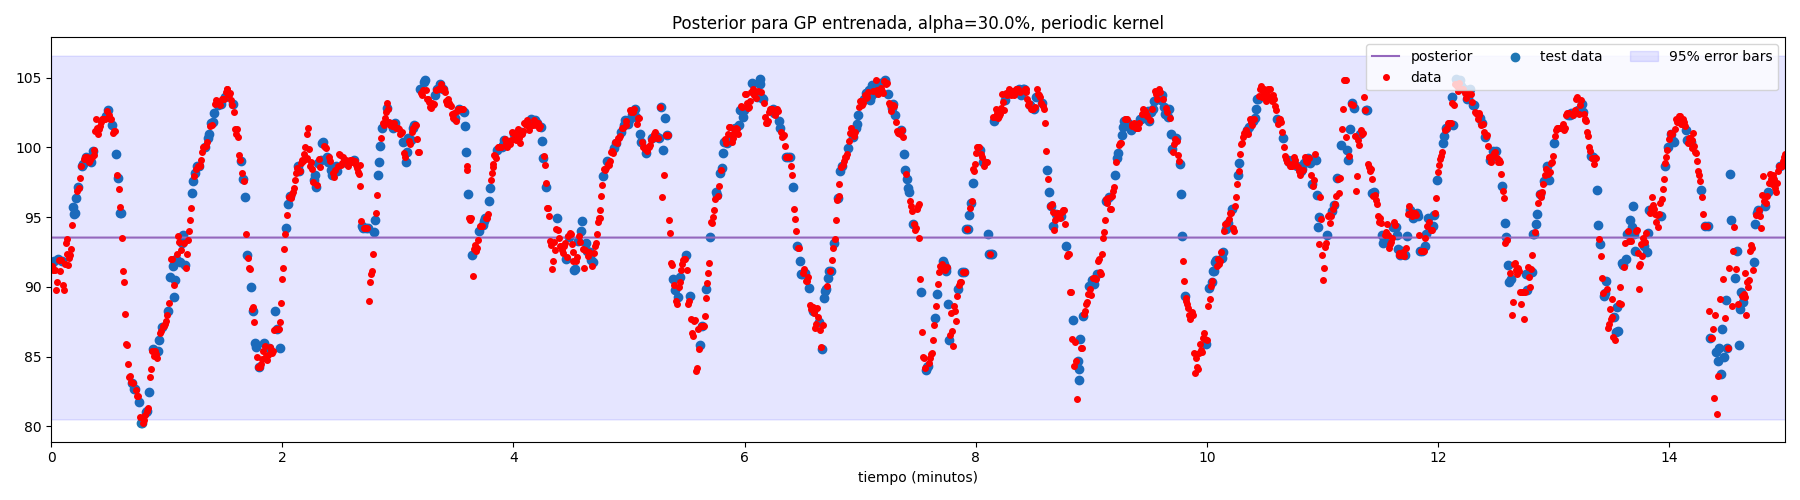
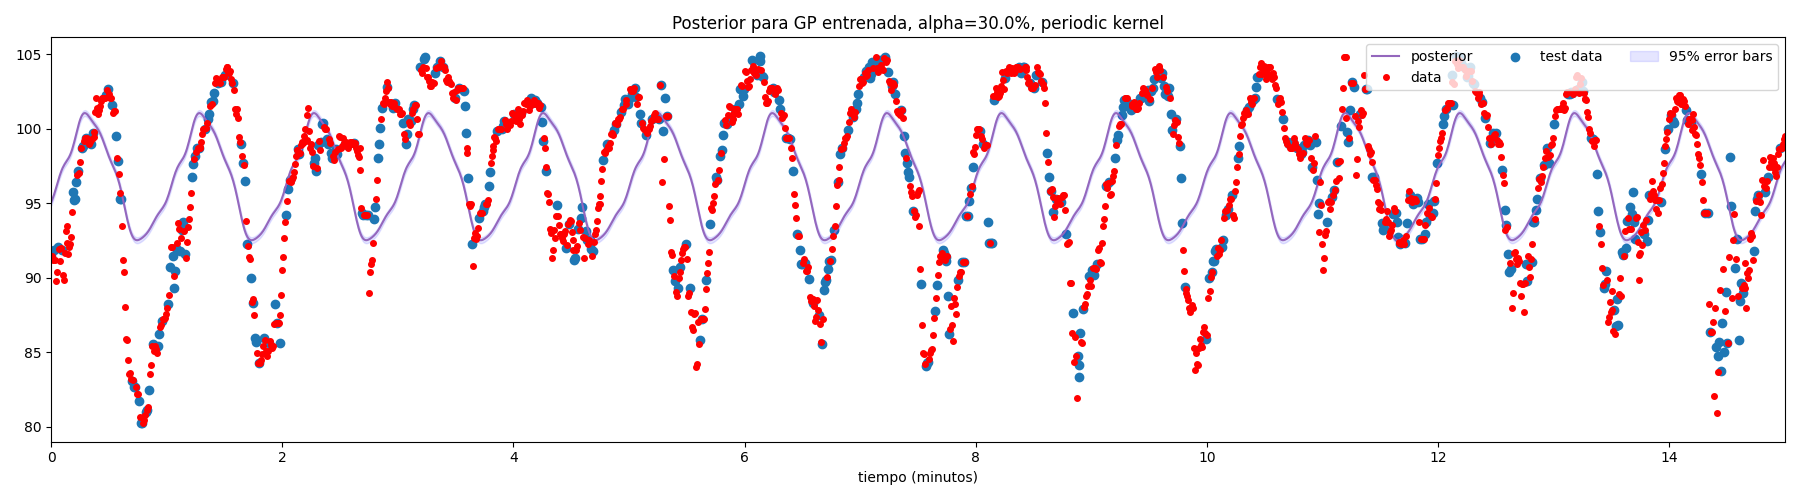
updte periodic trained gp

diff --git a/unidad_2/tarea_3/gp/kernels.py b/unidad_2/tarea_3/gp/kernels.py
@@ -145,7 +145,7 @@ class PeriodicKernel:
         jacobian = lambda hypers: self.dnlogp(X, Y, Nx, hypers)
         obj_fun = lambda hypers: self.nlogp(X, Y, Nx, hypers)
 
-        res = minimize(obj_fun, hypers0, args=(), method='L-BFGS-B', jac=jacobian, options={'maxiter': 500, 'disp': verbose})
+        res = minimize(obj_fun, hypers0, args=(), method='Newton-CG', jac=jacobian, options={'maxiter': 500, 'disp': verbose})
 
         self.length_scale = np.exp(res.x[0])
         self.periodicity = np.exp(res.x[1])
